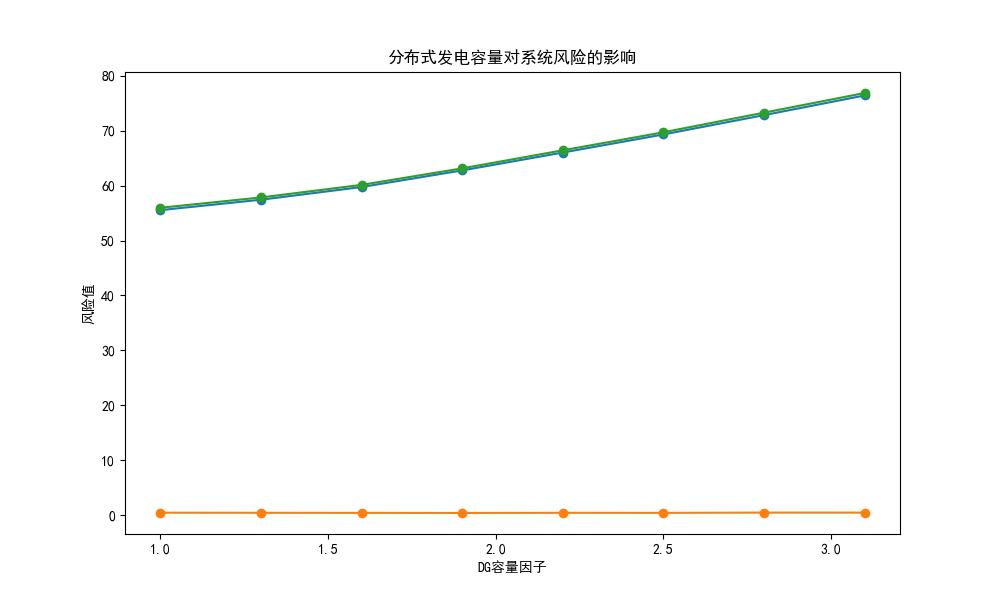
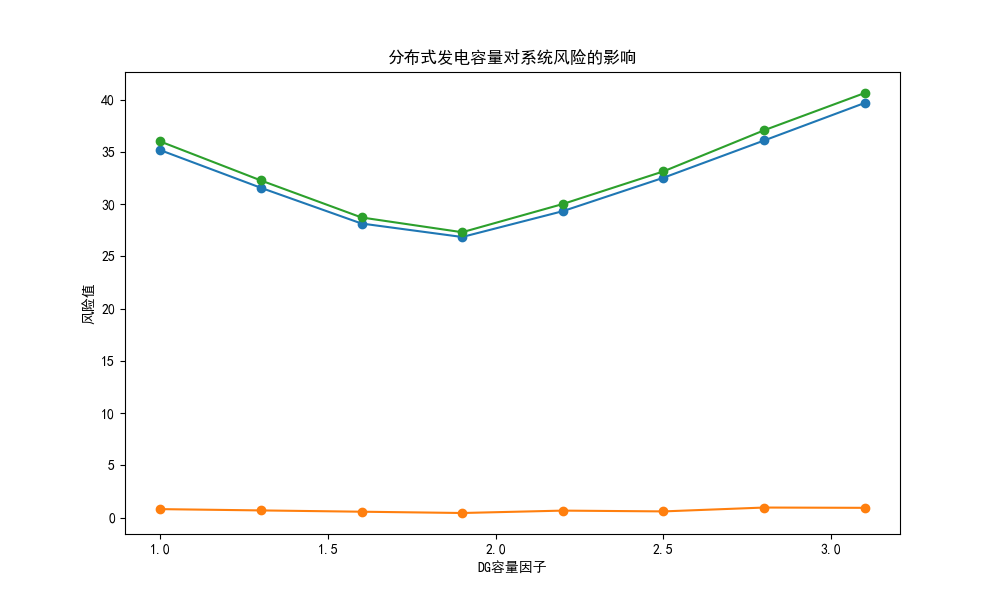
Refactor risk analysis calculations and update logs; adjust feeder risk metrics and enhance node type handling in RiskModel

diff --git a/Contests/2025-School/A/risk_model.py b/Contests/2025-School/A/risk_model.py
@@ -1,5 +1,6 @@
 import numpy as np
-from scipy.stats import beta
+from scipy.stats import norm
+from scipy.integrate import quad
 import pandas as pd
 import matplotlib.pyplot as plt
 import networkx as nx
@@ -14,6 +15,9 @@ class RiskModel:
         substation_data: Dict[str, int] = {},
         tie_switches: Dict[str, Tuple[int, int]] = {},
         dg_data: List[Dict[Literal["node", "capacity"], Union[int, float]]] = [],
+        node_type: Dict[
+            int, Literal["Residential", "Commercial", "Governmental", "Industrial"]
+        ] = {},
         feeder_capacity: float = 2200,
         feeder_current_limit: float = 220,
         voltage: float = 10,
@@ -39,6 +43,14 @@ class RiskModel:
         :param switch_failure_rate: 开关的故障率
         :param line_failure_rate_per_km: 每公里线路的故障率
         """
+        self.node_weight = {
+            "Residential": 0.2,
+            "Commercial": 0.5,
+            "Governmental": 0.8,
+            "Industrial": 1.0,
+        }
+        self.node_type = node_type
+
         self.nodes_data = nodes_data
         self.lines_data = lines_data
 
@@ -134,17 +146,20 @@ class RiskModel:
         :param node: 节点编号
         :return: 负荷损失
         """
-        feeder = self.feeder_table[node]
+        # 如果是 dg 直接相连的节点，则认为本身不会发生故障，发生故障一定是 dg 故障
         if is_dg:
             return next(
                 (dg["capacity"] for dg in self.dg_data if dg["node"] == node), 0
             )
 
-        loss = self.node_loads[node]
-        transferable_load = 0
-        # remaining_capacity = self._calculate_remaining_capacity(feeder)
-        # transferable_load = min(loss, remaining_capacity)
-        return loss - transferable_load
+        # 否则考虑节点故障导致的损失
+        loss = max(
+            self.node_loads[node]
+            - self._calculate_remaining_capacity(self.feeder_table[node]),
+            0,
+        )
+
+        return loss * self.node_weight[self.node_type[node]]
 
     def _calculate_line_failure_load_loss(self, line: Tuple[int, int]) -> float:
         """
@@ -190,7 +205,12 @@ class RiskModel:
                 )
                 total_loss -= min(other_remaining_capacity, total_loss)
 
-        return total_loss
+        # 计算平均权重，简化分析
+        mean_weight = sum(
+            self.node_weight[self.node_type[node]] for node in affected_nodes
+        ) / len(affected_nodes)
+
+        return total_loss * mean_weight
 
     def _calculate_switch_failure_load_loss(self, switch: Tuple[int, int]) -> float:
         """
@@ -208,7 +228,6 @@ class RiskModel:
 
         :return: 负荷损失风险
         """
-        # TODO: 加权计算损失
         total_risk = 0.0
 
         # 分三部分计算风险
@@ -301,23 +320,55 @@ class RiskModel:
         total_risk = 0.0
         current = self._calculate_feeder_current(feeder)
 
+        # TODO: 认为馈线电流为正态分布
+        mu = current
+        sigma = 0.1 * current  # 假设标准差为平均值的10%
+        mean_weight = sum(
+            self.node_weight[self.node_type[node]]
+            for node in self.feeder_regions[feeder]
+        ) / len(self.feeder_regions[feeder])
+
+        def overload_consequence(x: float) -> float:
+            if x > self.feeder_current_limit * 1.1:
+                return (
+                    2
+                    * np.sqrt(3)
+                    * self.voltage
+                    * (x - self.feeder_current_limit * 1.1 + 0.1)
+                    * mean_weight
+                )
+            else:
+                return (
+                    0.1
+                    * np.sqrt(3)
+                    * self.voltage
+                    * (x / (self.feeder_current_limit * 1.1))
+                    * mean_weight
+                )
+
+        total_risk = quad(
+            lambda x: overload_consequence(x) * norm.pdf(x, mu, sigma),
+            0,
+            np.inf,
+        )[0]
+
         # 若电流超过馈线电流限制，则计算过载风险
-        if current > self.feeder_current_limit * 1.1:
-            excess_current = current - self.feeder_current_limit * 1.1
-            overload_ratio = excess_current / (self.feeder_current_limit * 1.1)
-            # 这里简化为线性映射
-            overload_risk = min(1.0, overload_ratio * 2)
-            overload_consequence = (
-                excess_current
-                * self.feeder_capacity
-                / (self.feeder_current_limit * 1.1)
-            )
-            total_risk += overload_risk * overload_consequence
-        else:
-            # 考虑潜在风险
-            load_ratio = current / self.feeder_current_limit
-            potential_risk = 0.1 * (1 + load_ratio)
-            total_risk += potential_risk
+        # if current > self.feeder_current_limit * 1.1:
+        #     excess_current = current - self.feeder_current_limit * 1.1
+        #     overload_ratio = excess_current / (self.feeder_current_limit * 1.1)
+        #     # 这里简化为线性映射
+        #     overload_risk = min(1.0, overload_ratio * 2)
+        #     overload_consequence = (
+        #         excess_current
+        #         * self.feeder_capacity
+        #         / (self.feeder_current_limit * 1.1)
+        #     )
+        #     total_risk += overload_risk * overload_consequence
+        # else:
+        #     # 考虑潜在风险
+        #     load_ratio = current / self.feeder_current_limit
+        #     potential_risk = 0.1 * (1 + load_ratio)
+        #     total_risk += potential_risk
 
         return total_risk
 
@@ -341,8 +392,7 @@ class RiskModel:
 
         :param path: 保存路径，默认为 None，表示直接显示图形
         """
-
-        # TODO: 使用 PyVis 优化网络拓扑图绘制
+        # TODO: 分类染色节点
 
         node_labels = {
             node: f"{node}\n{data['load']}kW"
@@ -403,6 +453,71 @@ def get_default_model() -> RiskModel:
         {"node": 59, "capacity": 300},
     ]
 
+    node_type = {
+        1: "Residential",
+        2: "Residential",
+        3: "Residential",
+        4: "Residential",
+        5: "Residential",
+        6: "Residential",
+        7: "Industrial",
+        8: "Residential",
+        9: "Governmental",
+        10: "Residential",
+        11: "Commercial",
+        12: "Industrial",
+        13: "Residential",
+        14: "Industrial",
+        15: "Residential",
+        16: "Commercial",
+        17: "Residential",
+        18: "Industrial",
+        19: "Residential",
+        20: "Residential",
+        21: "Governmental",
+        22: "Residential",
+        23: "Residential",
+        24: "Residential",
+        25: "Residential",
+        26: "Residential",
+        27: "Commercial",
+        28: "Residential",
+        29: "Governmental",
+        30: "Residential",
+        31: "Commercial",
+        32: "Industrial",
+        33: "Commercial",
+        34: "Commercial",
+        35: "Residential",
+        36: "Governmental",
+        37: "Residential",
+        38: "Commercial",
+        39: "Residential",
+        40: "Industrial",
+        41: "Residential",
+        42: "Commercial",
+        43: "Residential",
+        44: "Residential",
+        45: "Governmental",
+        46: "Residential",
+        47: "Industrial",
+        48: "Residential",
+        49: "Commercial",
+        50: "Residential",
+        51: "Residential",
+        52: "Residential",
+        53: "Commercial",
+        54: "Residential",
+        55: "Residential",
+        56: "Commercial",
+        57: "Residential",
+        58: "Governmental",
+        59: "Residential",
+        60: "Residential",
+        61: "Governmental",
+        62: "Residential",
+    }
+
     tie_switches = {
         "S13-1": (13, 23),
         "S29-2": (29, 43),
@@ -421,6 +536,7 @@ def get_default_model() -> RiskModel:
         substation_data=substation_switches,
         tie_switches=tie_switches,
         dg_data=dg_data,
+        node_type=node_type,
     )
 
     return model

diff --git a/Contests/2025-School/A/Q2_dg_capacity_trending.py b/Contests/2025-School/A/Q2_dg_capacity_trending.py
@@ -101,7 +101,7 @@ def analyze_dg_capacity(
             + model.network.subgraph(nodes).size("failure_rate")
         )
         / total_risk
-        for feeder, nodes in model.feeder_regions.items()
+        for _, nodes in model.feeder_regions.items()
     ]
     feeder_results = {
         feeder_name: [risk * ratio for risk in results["system_risk"]]
